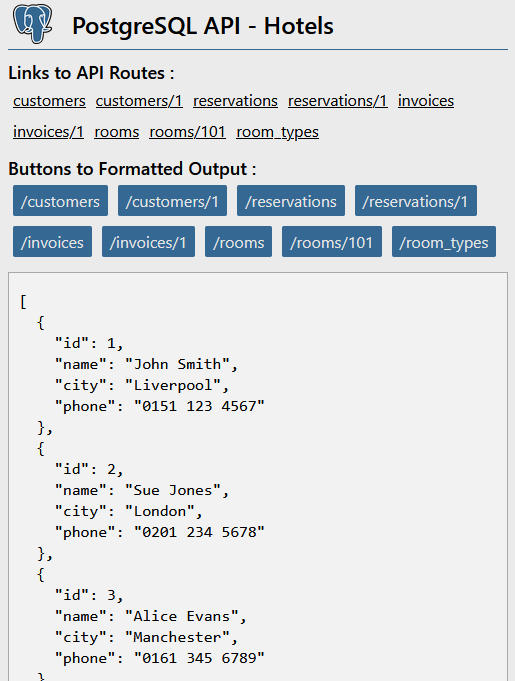
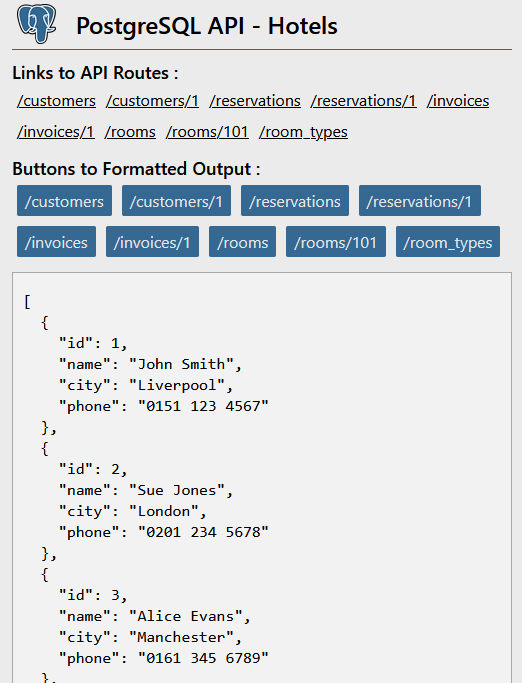
adjustments

diff --git a/cyf-hotels-api/public/script.js b/cyf-hotels-api/public/script.js
@@ -14,7 +14,7 @@ paths.forEach((path) => {
   const navLinks = document.getElementById("nav-links");
   const link = document.createElement("a");
   link.href = `/${path}`;
-  link.innerText = `${path}`;
+  link.innerText = `/${path}`;
   navLinks.appendChild(link);
 
   const navButtons = document.getElementById("nav-buttons");
